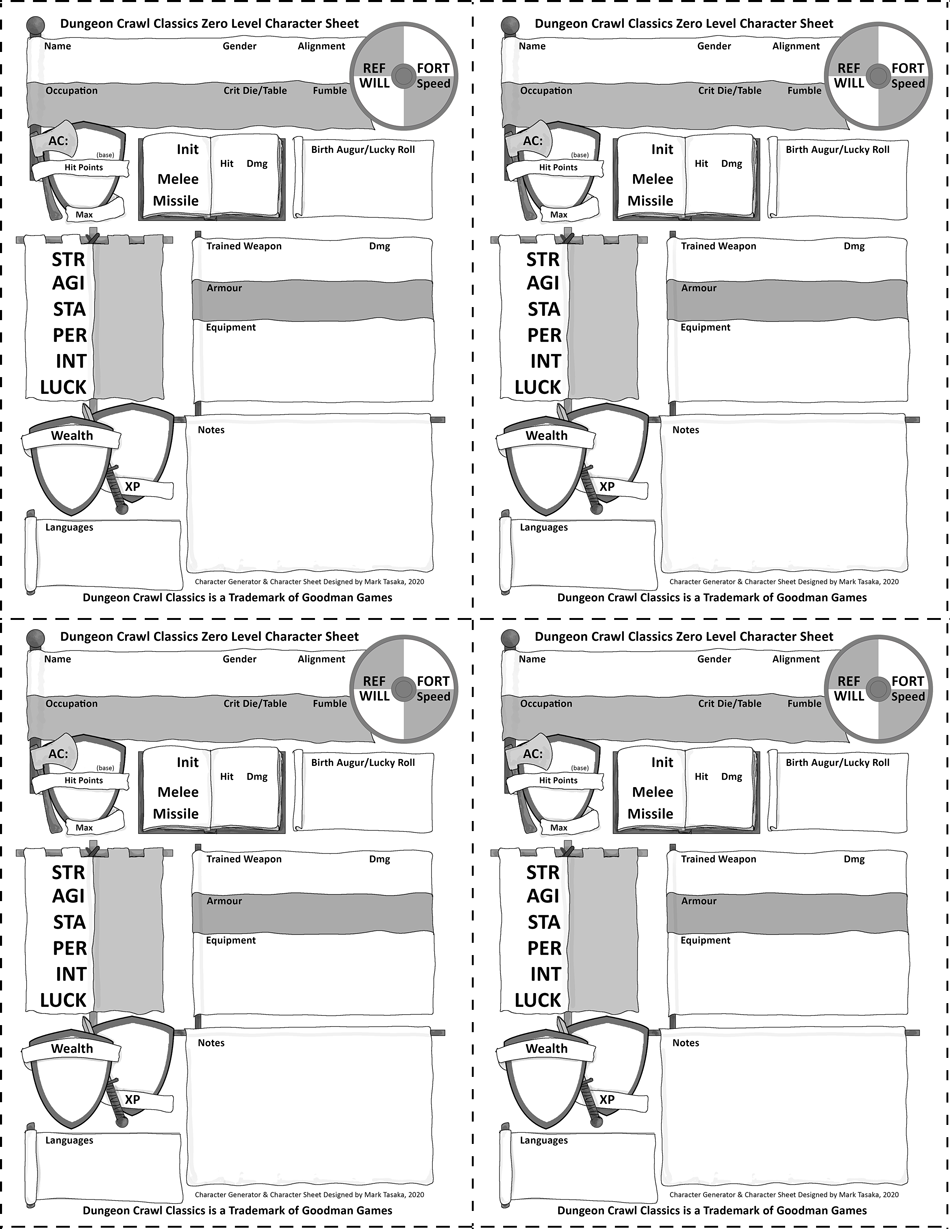
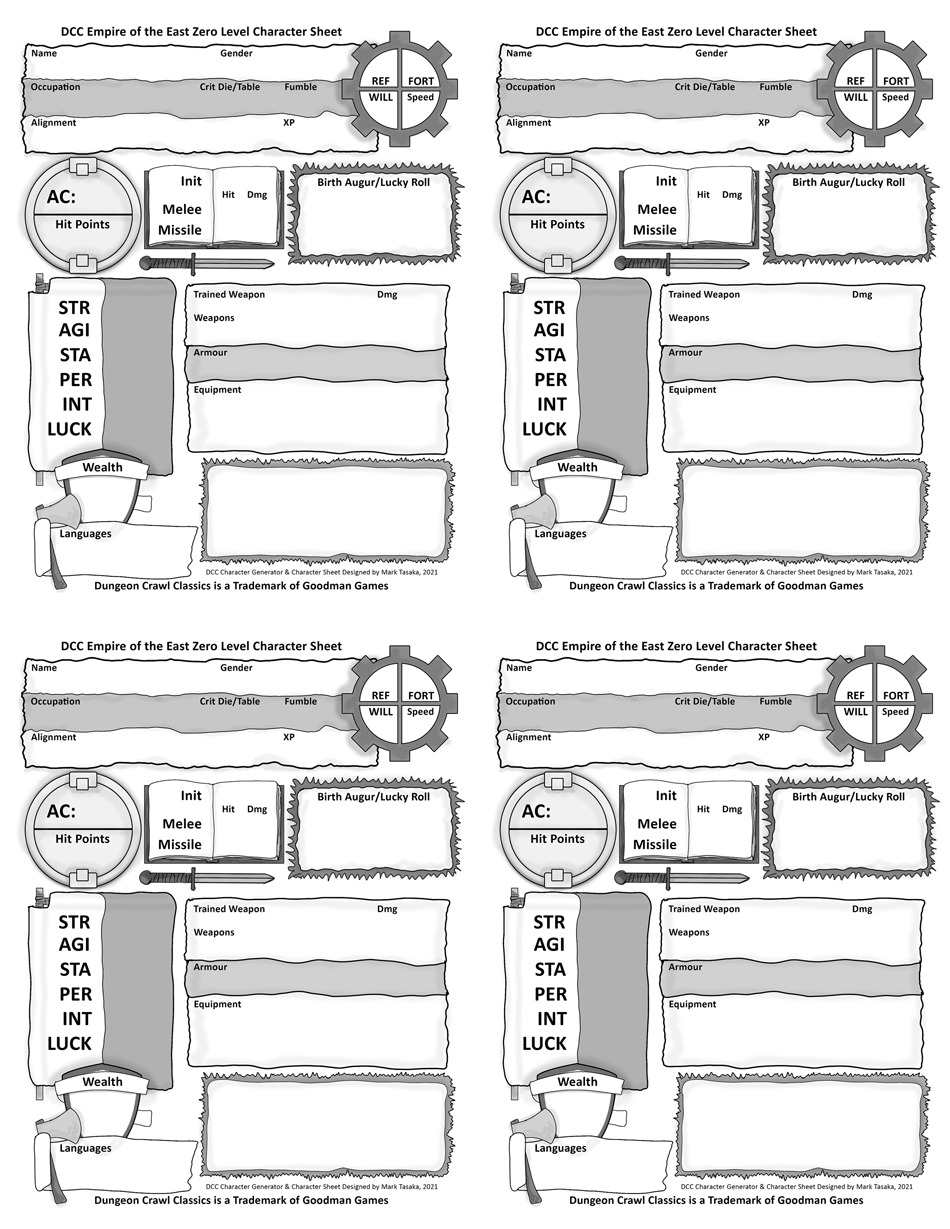
Update 1.07

diff --git a/zeroLevelGen/css/dcc_zero_characters.css b/zeroLevelGen/css/dcc_zero_characters.css
@@ -51,29 +51,28 @@ Character 1
 
 #name0, #name1, #name2, #name3{
     position: absolute;
-    top: 68px;
-    left: 55px;
+    top: 72px;
+    left: 45px;
 }
 
 
 #profession0, #profession1, #profession2, #profession3{
     position: absolute;
-    top: 113px;
-    left: 55px;
+    top: 108px;
+    left: 45px;
 }
 
 
 #alignment0, #alignment1, #alignment2, #alignment3{
     position: absolute;
-    top: 68px;
-    left: 320px;
-    width: 90px;
+    top: 145px;
+    left: 45px;
 }
 
 
 #sex0, #sex1, #sex2, #sex3{
     position: absolute;
-    top: 68px;
+    top: 72px;
     left: 245px;
 }
 
@@ -193,14 +192,14 @@ Character 1
 
 #armourClass0, #armourClass1, #armourClass2, #armourClass3{
 	position: absolute;
-    top: 130px;
-    left: 88px;
-	font-size: 1.2em;
+    top: 181px;
+    left: 93px;
+	font-size: 1.5em;
 }
 
 #hitPoints0, #hitPoints1, #hitPoints2, #hitPoints3{
 	position: absolute;
-    top: 202px;
+    top: 255px;
     left: 90px;
 	font-size: 1.2em;
 }
@@ -208,22 +207,22 @@ Character 1
 
 #ref0, #ref1, #ref2, #ref3{
     position: absolute;
-    top: 48px;
-    left: 395px;
+    top: 68px;
+    left: 400px;
 	font-size: 1.3em;
 }
 
 #fort0, #fort1, #fort2, #fort3{
     position: absolute;
-    top: 48px;
-    left: 442px;
+    top: 68px;
+    left: 437px;
 	font-size: 1.3em;
 }
 
 #will0, #will1, #will2, #will3{
     position: absolute;
-    top: 103px;
-    left: 398px;
+    top: 116px;
+    left: 403px;
 	font-size: 1.3em;
 }
 
@@ -278,8 +277,8 @@ Character 1
 
 #speed0, #speed1, #speed2, #speed3{
     position: absolute;
-    top: 103px;
-    left: 445px;
+    top: 116px;
+    left: 435px;
 	font-size: 1.3em;
 }
 
@@ -299,8 +298,8 @@ Character 1
 
 #fumbleDie0, #fumbleDie1, #fumbleDie2, #fumbleDie3{
     position: absolute;
-    top: 113px;
-    left: 340px;
+    top: 108px;
+    left: 320px;
 	font-size: 1.2em;
 }
 
@@ -308,8 +307,8 @@ Character 1
 
 #critDie0, #critDie1, #critDie2, #critDie3{
     position: absolute;
-    top: 113px;
-    left: 260px;
+    top: 108px;
+    left: 220px;
 	font-size: 1.2em;
 }
 
